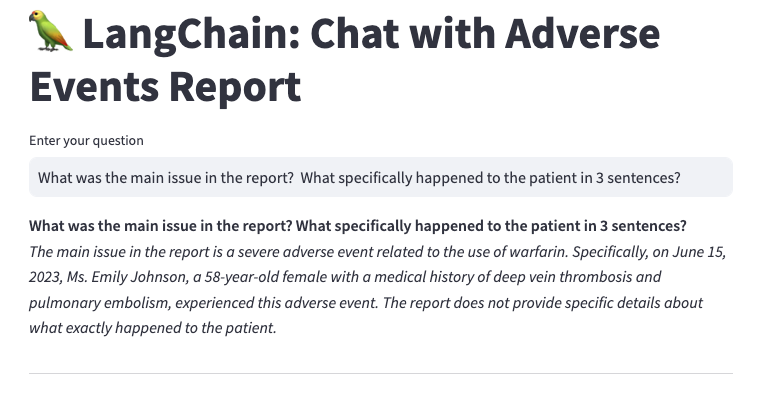
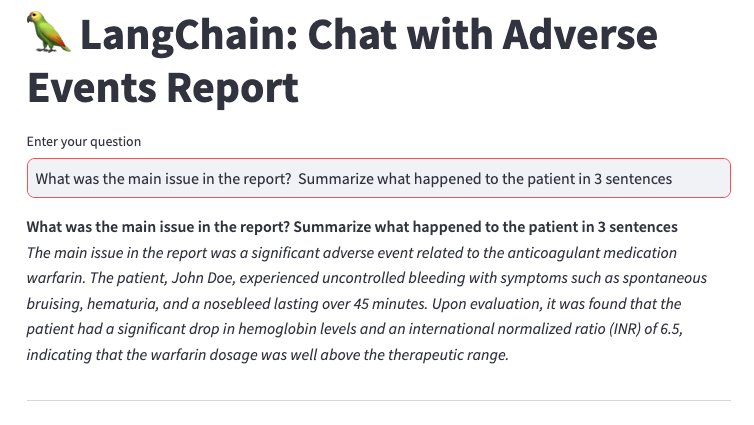
updated

diff --git a/_posts/2023-10-24-advancing-analysis-fda-adverse-events-using-llms.md b/_posts/2023-10-24-advancing-analysis-fda-adverse-events-using-llms.md
@@ -39,12 +39,14 @@ For the purpose of this tutorial, I used OpenAI's <a href="https://openai.com/" 
 
 These were the series of prompts I used to generate the final [report](https://github.com/slsu0424/langchain-ade-public/blob/main/ade.pdf):
 
-"Create an adverse event report related to warfarin.  Limit to 500 words."  
-"Make up a date"  
+"Create an adverse event report related to warfarin. Limit to 250 words."
+"Remove the Reporting Authority section"
+"expand to 500 words"
+"Include the Reporting Authority section"
 
 A snippet of the document is below:
 
->On June 15, 2023, Ms. Emily Johnson, a 58-year-old female with a medical history of deep vein thrombosis and pulmonary embolism, experienced a severe adverse event related to the use of warfarin.
+>On October 20, 2023, at 09:30 AM, the patient, John Doe, experienced a significant adverse event related to the anticoagulant medication warfarin. Mr. Doe, a 68-year-old male with a history of atrial fibrillation, had been taking warfarin (5 mg daily) for the past three years as prescribed by his cardiologist.
 
 
 ## Q&A application overview
